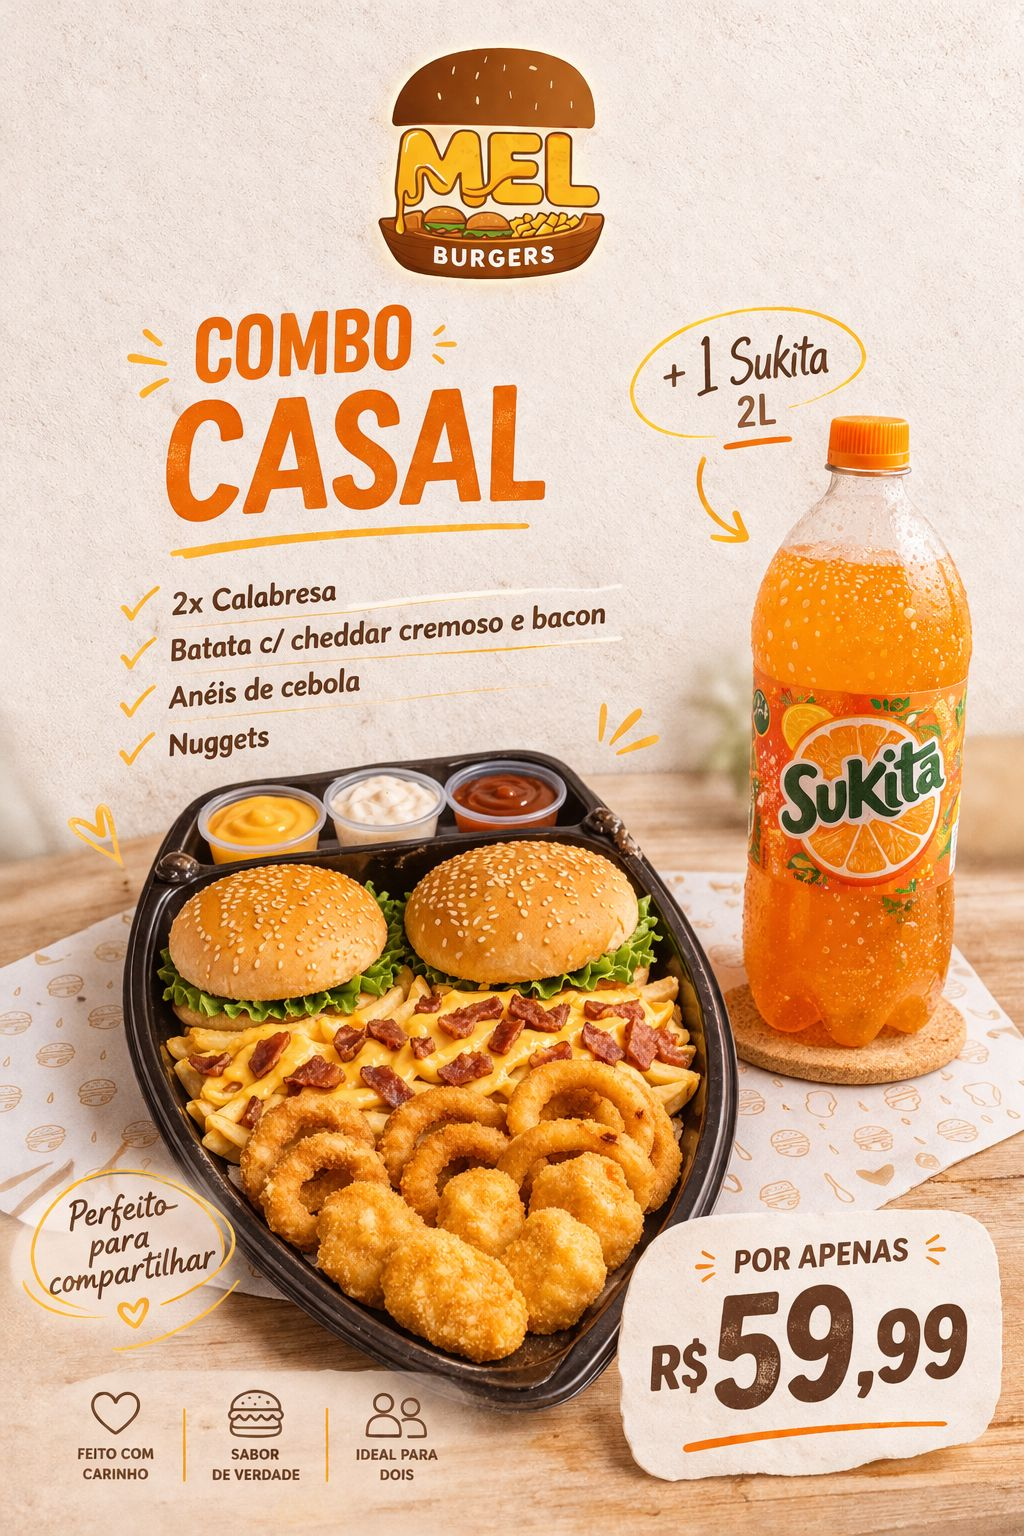
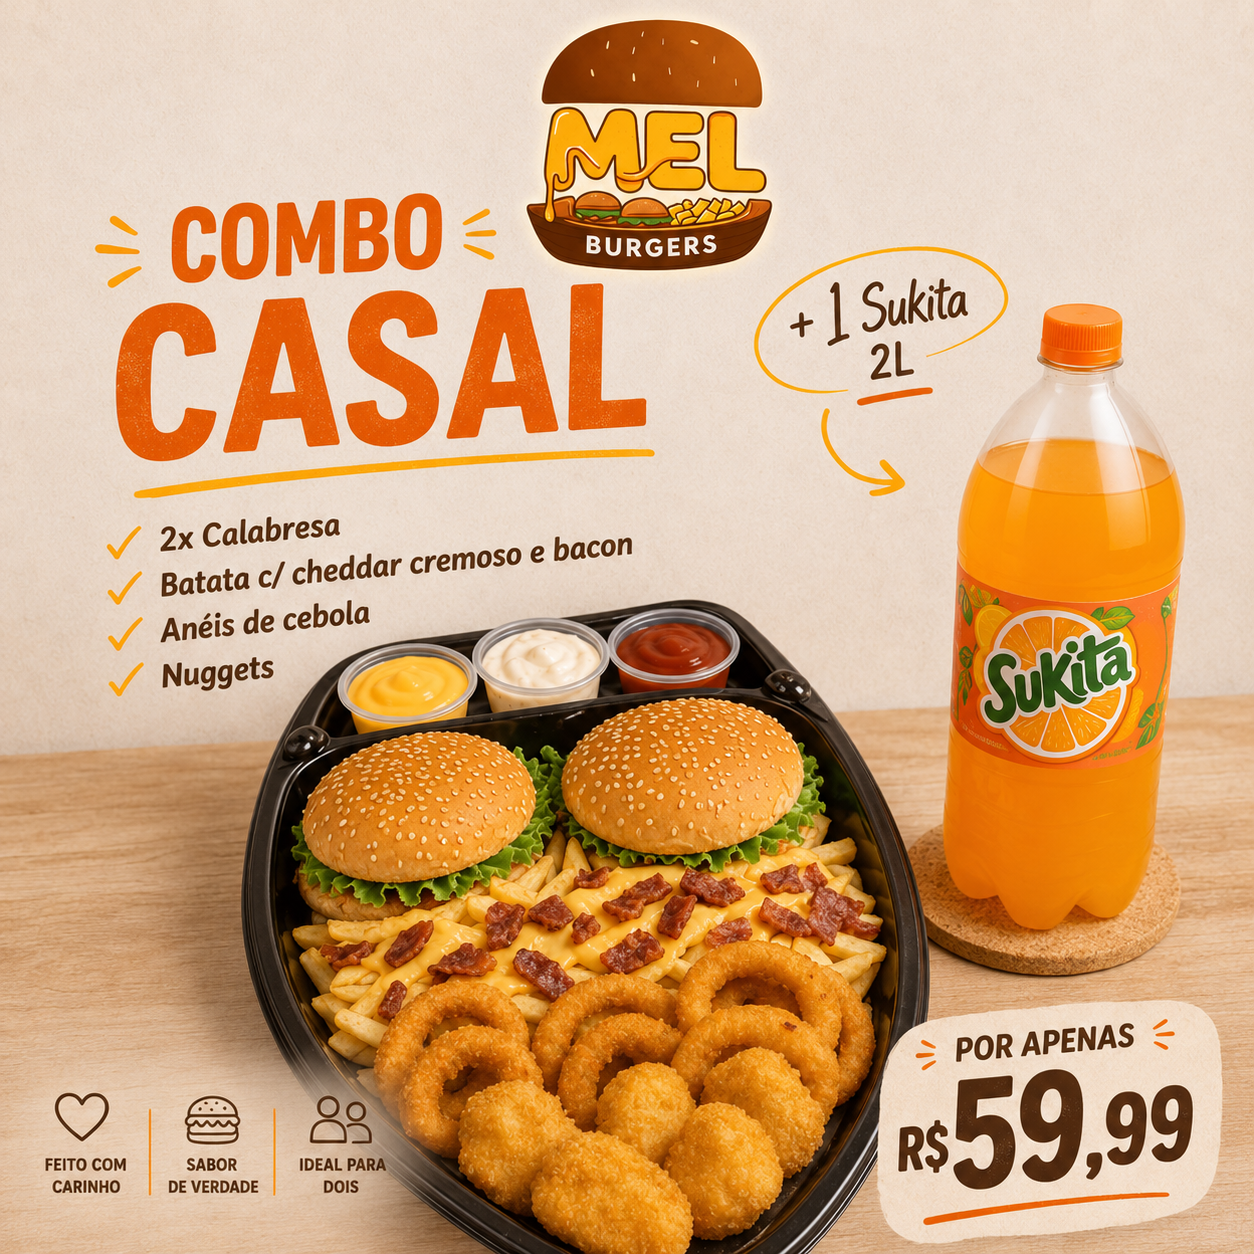
feat: add category renaming functionality in AdminDashboard

diff --git a/src/AdminDashboard.jsx b/src/AdminDashboard.jsx
@@ -1098,6 +1098,26 @@ const AdminDashboard = () => {
     handleSaveMenu(newMenu);
   };
 
+  const handleRenameCategory = (oldName) => {
+    const newName = window.prompt(`Novo nome para a categoria "${oldName}":`, oldName);
+    if (newName && newName !== oldName && newName.trim() !== "") {
+      if (appMenuData.menu[newName]) {
+        alert("Já existe uma categoria com este nome!");
+        return;
+      }
+      const newMenu = { ...appMenuData };
+      newMenu.menu[newName] = newMenu.menu[oldName];
+      delete newMenu.menu[oldName];
+      
+      // Atualizar categorias ocultas se necessário
+      if (newMenu.hiddenCategories && newMenu.hiddenCategories.includes(oldName)) {
+        newMenu.hiddenCategories = newMenu.hiddenCategories.map(c => c === oldName ? newName : c);
+      }
+      
+      handleSaveMenu(newMenu);
+    }
+  };
+
   const handleDragEndMenu = (event) => {
     const { active, over } = event;
     if (!over || active.id === over.id) return;
@@ -1927,6 +1947,22 @@ const AdminDashboard = () => {
                                 title={appMenuData?.hiddenCategories?.includes(cat) ? "Sessão Oculta" : "Sessão Visível"}
                               >
                                 {appMenuData?.hiddenCategories?.includes(cat) ? <EyeOff size={14} /> : <Eye size={14} />}
+                              </button>
+                              <button 
+                                onClick={() => handleRenameCategory(cat)}
+                                style={{ 
+                                  background: 'rgba(255, 255, 255, 0.05)', 
+                                  border: '1px solid rgba(255, 255, 255, 0.1)', 
+                                  color: '#71717a', 
+                                  width: '32px', height: '32px', 
+                                  borderRadius: '8px', 
+                                  display: 'flex', alignItems: 'center', justifyContent: 'center',
+                                  cursor: 'pointer',
+                                  marginTop: '4px'
+                                }}
+                                title="Editar Nome"
+                              >
+                                <Edit size={14} />
                               </button>
                               <button 
                                 onClick={() => handleDeleteCategory(cat)}